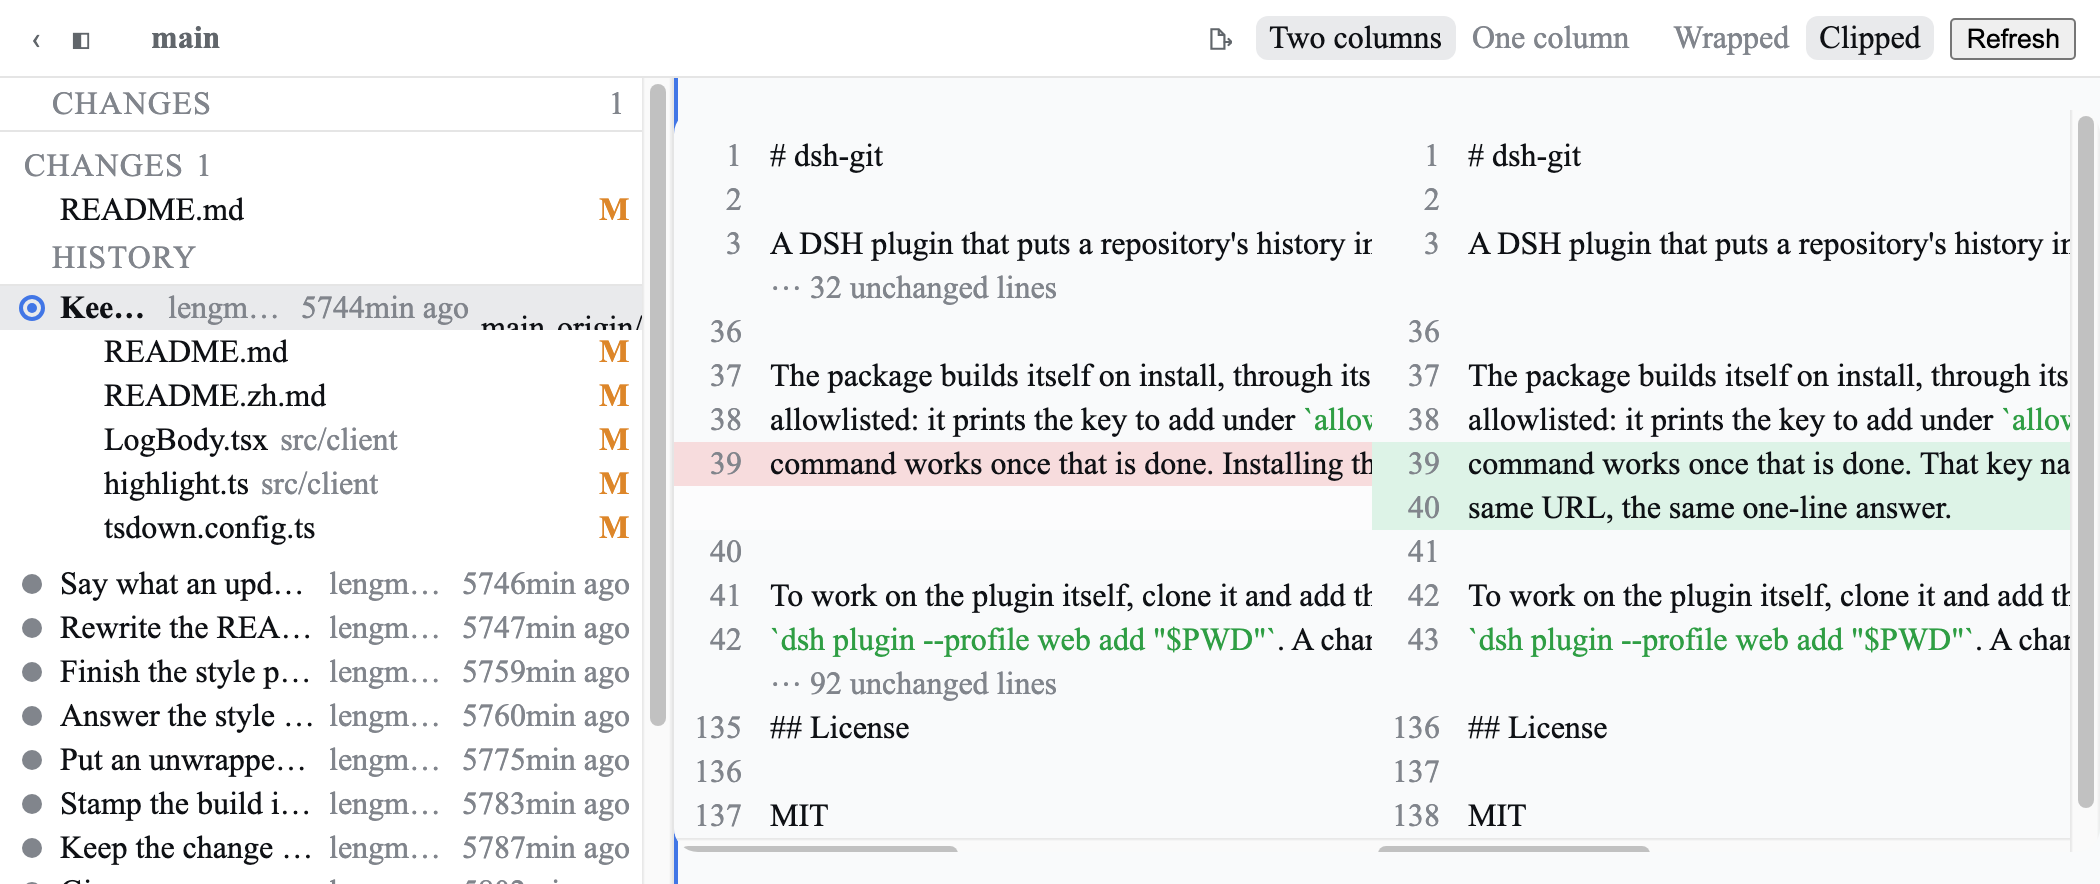
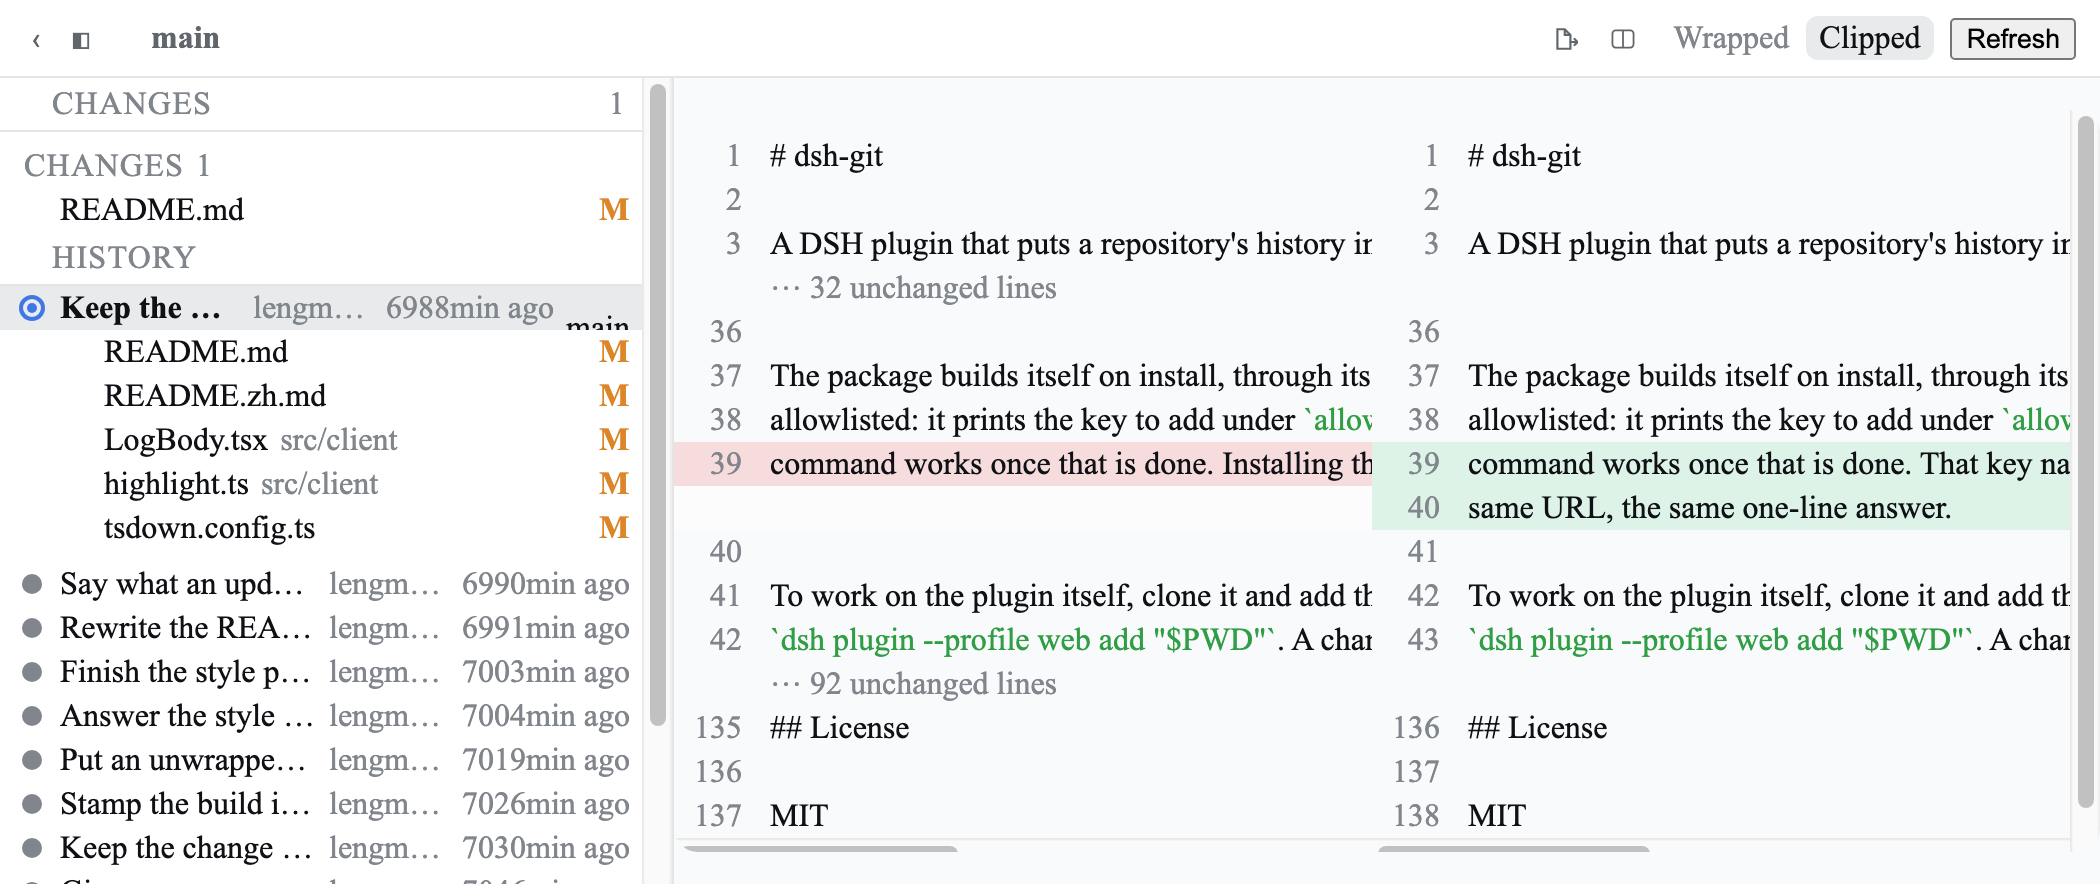
Make the fitting count survive a renderer without a resize observer
The docs' screenshot pass renders the page in jsdom, where there is no
`ResizeObserver`, and the count's effect threw there — a page that works in a browser
and nowhere else. The observer is optional now; without one the count stays at its
floor.

The screenshots are re-shot with it, and with the layout button the earlier pass could
not click: it looked for the two labelled buttons that no longer exist, so it had been
photographing a header the code no longer draws. Eight images, both locales.

diff --git a/src/client/HistoryList.tsx b/src/client/HistoryList.tsx
@@ -76,9 +76,12 @@ function useFittingRows(viewport: RefObject<HTMLDivElement | null>): number {
       setRows(Math.max(HISTORY_MIN, Math.floor(element.clientHeight / ROW_HEIGHT)))
     }
     measure()
-    const observer = new ResizeObserver(measure)
-    observer.observe(element)
-    return () => { observer.disconnect() }
+    // The page is also rendered where there is no `ResizeObserver` — the docs'
+    // screenshot pass and the suite render it in jsdom — and the count then simply
+    // stays at its floor until the reader resizes nothing.
+    const observer = typeof ResizeObserver === 'undefined' ? undefined : new ResizeObserver(measure)
+    observer?.observe(element)
+    return () => { observer?.disconnect() }
   }, [viewport])
   return rows
 }
